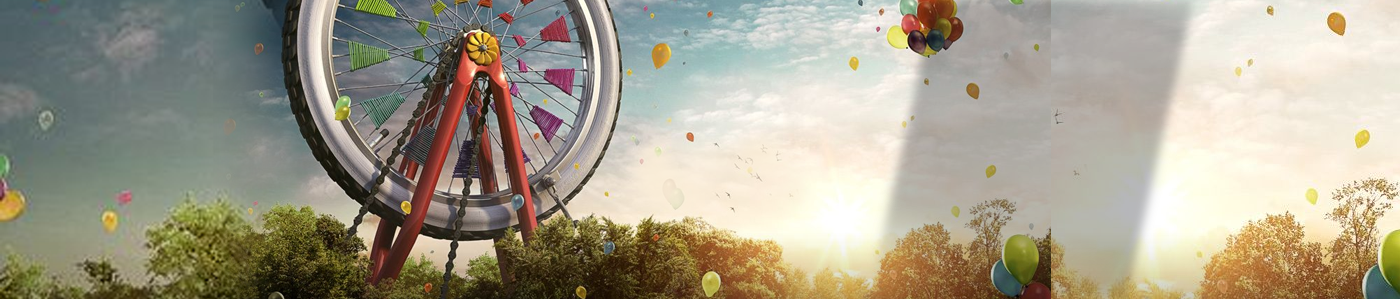
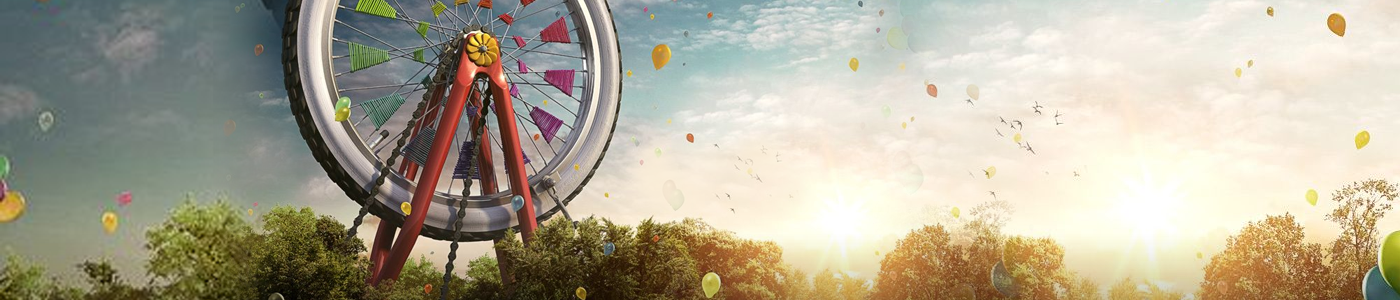
포폴수정

diff --git a/lib/css/cubebridge_master.css b/lib/css/cubebridge_master.css
@@ -1,9 +1,17 @@
+/*init*/
 *{margin:0; padding:0}
+html,body{height:100%;}
+a{text-decoration:none;}
+button,input[type="submit"]{cursor: pointer}
+fieldset{border:0 none}
+img{vertical-align: top;}
 ul{list-style:none}
 .ir{font-size:0; position:absolute; left:-999999999px; top:-99999999px;	overflow:hidden; width:0; height:0}
-body{font-size:11px; font-family:dotum, "돋움", arial, hevetica, sans-serif;	color:#a1a1a1; letter-spacing:-1px }
-a{text-decoration:none;}
-fieldset{border:0 none}
+body{font-size:12px; font-family:dotum, "돋움", arial, hevetica, sans-serif;	color:#a1a1a1; letter-spacing:-1px }
+
+/*color font*/
+.base{color:#555555 !important}
+.strcolor{color:#f9789f !important}
 
 /*option*/
 .strcolor{color:#f9789f!important}
@@ -33,25 +41,31 @@ fieldset{border:0 none}
 .head .depth02 .list02{position:relative; width:550px}
 .head .depth02 .list02 li{float:left; margin-left:inherit; margin-left:50px}
 
-.head .lnb ul>li>.depth02>ul>li>.depth03{display:none; z-index:1; position:absolute; width:183px; height:32px; background:url("../../lib/image/cubebridge/menu_box.png")no-repeat;  margin-top:3px; margin-left:5px}
+.head .lnb ul>li>.depth02>ul>li>.depth03{display:none; z-index:1; position:absolute; width:183px; height:32px; background:url("../../lib/image/cubebridge/menu_box.png")no-repeat;  margin-top:1px; margin-left:5px}
 .head .lnb ul>li>.depth02>ul>li>.depth03>ul{position:relative;  }
 .head .lnb ul>li>.depth02>ul>li>.depth03>ul>li{ float:left; margin-top:13px; margin:intial; margin-left:19px}
 
-.head .event_area{width:278px;	position:absolute;	top:25px;	right:0;  }
+.head .event_area{width:270px;	position:absolute;	top:25px;	right:0;  }
 .head .event_area .good-food{float:left; margin-right:5px   }
 .head .event_area div{margin-top:44px}
 .head .event_area div li p{line-height:16px; font-size:12px;}
-.head .event_area div li a{color:#77c3cf; font-weight:bold; font-size:14px; line-height:13px }
-.head .event_area div img{margin-bottom:5px}
+.head .event_area div li a{color:#77c3cf; font-weight:bold; font-size:13px; line-height:13px }
+.head .link_point{text-decoration: underline; color:#77c3cf; padding:0 10px; font-weight:bold;font-size:12px;}
+.head .event_area div img{margin-bottom:10px}
 
 .head .top_boll{width:11px; position:absolute; right:0; top:67px }
-.head .top_boll li{width:11px; height:11px; margin-bottom:8px}
+.head .top_boll li{ width:11px; height:11px; margin-bottom:8px; background:url("../../lib/image/cubebridge/top_boll2.png")}
+.head .top_boll li:hover,
+.head .top_boll li.on{background:url("../../lib/image/cubebridge/top_boll.png")}
 
 .menu_bar{height:35px; background-color:#00b2c7; border-top:6px #12151f solid}
 
-#container .main{height:300px; background:url("../../lib/image/cubebridge/main_image.png") no-repeat; background-position: center; background-color:#e9ddcf; vertical-align:top   }
-#container .main .main_wrap{width:980px;	height:300px; margin:0 auto; position:relative }
-#container .main .main_wrap .main_box{width:322px; height:300px; background:url("../../lib/image/cubebridge/notice-board.png") no-repeat; position:absolute; top:0; right:0;}
+
+
+#container .main{height:300px; overflow:hidden; position:relative}
+#container .main .intro{position:absolute; width:100%;top:0; left:0}
+#container .main .intro>img{min-width:100%; }
+#container .main .main_box{width:322px; height:100%; background:url("../../lib/image/cubebridge/notice-board.png") no-repeat; position:absolute; z-index:5; left:50%; margin-left:166px}
 
 
 #container strong{display:block; text-align:center; letter-spacing: -1; font-size:13px; font-weight:bold; color:#494f65 }
@@ -71,8 +85,10 @@ fieldset{border:0 none}
 #container .sub01_left li>div img{width:100%;}
 
 #container .sub01_wrap .sub01_right{width:265px; height:450px; float:right }
-#container .sub01_wrap .sub01_right_top{margin-top:25px}
-#container .sub01_wrap .sub01_right_videobox{width:265px; height:205px; margin:10px 0 8px 0}
+#container .sub01_wrap .sub01_right_top{margin-top:25px;}
+#container .sub01_right_top h2{float:left;}
+#container .sub01_right_top a{float:right;}
+
 #container .sub01_wrap .sub01_right_bottom{ width:265px; height:105px; margin-top:18px;  position:relative}
 #container .sub01_wrap .sub01_right_bottom div{width:80px; height:70px; background-color:#12151f; margin-bottom:8px }
 #container .sub01_wrap .sub01_right_bottom ul{width:250px; text-align:center; display:inline-block; margin:7px }

diff --git a/front/portfolio/cubebridge/main/main.html b/front/portfolio/cubebridge/main/main.html
@@ -4,8 +4,8 @@
 	<meta charset="UTF-8" />
 	<title>webzine</title>
 
-     <base href="http://hyojane.dothome.co.kr/" target="_self" />
-	<!-- <base href="file:///D:/uiux_kimjihyo/person_project/" target="_self" /> -->
+     <base href="file:///D:/uiux_kimjihyo/person-project/" target="_self" />
+	<!-- <base href="file:///D:/uiux_kimjihyo/person-project/" target="_self" /> -->
     <!-- <base href="http://hyojane.dothome.co.kr/" target="_self" /> -->
 
 
@@ -67,28 +67,35 @@
 					<li><img src="lib/image/cubebridge/event-area.png" alt="event-area"/></li>
 					<li><p>예쁜 아이콘과 함께<br>
 					이곳에 이벤트를 넣는 것은<br>
-					어떨까요? <a href="">view</a>
+					어떨까요? <a href="" class="link_point">View</a>
 					</p></li>
 				</ul>
 			</div>
 		</div>
 		<div class="top_boll">
 			<ul>
-				<li><img src="lib/image/cubebridge/top_boll.png" alt=""/></li>
+				<li></li>
+				<li></li>
+				<li></li>
+				<li></li>
+				<!-- <li><img src="lib/image/cubebridge/top_boll.png" alt=""/></li>
 				<li><img src="lib/image/cubebridge/top_boll2.png" alt=""/></li>
 				<li><img src="lib/image/cubebridge/top_boll2.png" alt=""/></li>
-				<li><img src="lib/image/cubebridge/top_boll2.png" alt=""/></li>
+				<li><img src="lib/image/cubebridge/top_boll2.png" alt=""/></li> -->
 			</ul>
 		</div>
+
 	</div>
 	<div class="menu_bar"></div>
 
 <div id="container">
-
 	<div class="main">
-		<div class="main_wrap">
-			<div class="main_box"> </div>
+		<div class="intro">
+			<img src="lib/image/cubebridge/main_image.png" alt=""/>
 		</div>
+			<div class="main_box">
+
+			</div>
 	</div>
 
 	<div class="main_sub01_bg">
@@ -168,10 +175,24 @@
 			</div>
 
 			<div class="sub01_right">
-				<div class="sub01_right_top">
+
+				<div class="video">
+					<div class="sub01_right_top">
+						<h2><img src="lib/image/cubebridge/bt_cubebridge.png" alt=""></h2>
+						<a href="">MORE</a>
+					</div>
+					<iframe width="265" height="205" src="https://www.youtube.com/embed/brVfHQjorT8" frameborder="0" allowfullscreen></iframe>
+					<p>
+						<strong>SEOTAIJI - HUMAN DREAM </strong>
+						<span>"SEOTAIJI VERSION" </span>
+					</p>
+				</div>
+
+				<!-- <div class="sub01_right_top">
 					<img src="lib/image/cubebridge/bt_cubebridge.png" alt="">
 					<div class="sub01_right_videobox">
-						<img src="lib/image/cubebridge/box_video.png" alt="">
+
+						<iframe width="278" height="205" src="https://www.youtube.com/embed/brVfHQjorT8" frameborder="0" allowfullscreen></iframe>
 					</div>
 					<a href="">
 						<p>
@@ -179,7 +200,9 @@
 							<span>Video Clip’s Name Video Clip’s Name...!!!</span>
 						</p>
 					</a>
-				</div>
+				</div> -->
+
+
 				<div class="sub01_right_bottom">
 				<button class="bt_next"><img src="lib/image/cubebridge/main_arrow_right.png" alt="다음"></button>
 				<button class="bt_prv"><img src="lib/image/cubebridge/main_arrow_left.png" alt="이전"></button>

diff --git a/front/portfolio/cubebridge/coverstroy/list.html b/front/portfolio/cubebridge/coverstroy/list.html
@@ -4,7 +4,7 @@
 	<meta charset="UTF-8" />
 	<title>webzine</title>
 
-    <base href="http://hyojane.dothome.co.kr/" target="_self" />
+    <base href="file:///D:/uiux_kimjihyo/person-project/" target="_self" />
 	<!-- <base href="file:///D:/uiux_kimjihyo/person_project/" target="_self" /> -->
     <!-- <base href="http://hyojane.dothome.co.kr/" target="_self" /> -->
 
@@ -14,26 +14,30 @@
 
 <script type="text/javascript">
 
-$(document.ready(function(){
-   //$()
-   //.read()
-   //function(){}
+	$(document.ready(function(){
+	   //$()
+	   //.read()
+	   //function(){}
 
-$('.icon-grid').click(function(){
-	$('.view-list').removeClass().addClass()('webzine-list');
-	return false;
-});
+	   $('.icon-grid').click(function(){
+   		$('.view-list').removeClass().addClass('webzine-list');
 
-$('.icon-list').click(function(){
-	$('.webzine-list').removeClass().addClass()('view-list');
-	return false;
-});
+   		return false;
+   		});
 
-$('.fix_option').click(function(){
-	$(this).next('ul').slideToggle();
-});
+   	$('.icon-list').click(function(){
 
-});
+   		$('.webzine-list').removeClass().addClass('view-list');
+
+   		return false;
+   	});
+
+   	$('.fix_option').click(function(){
+   		$(this).next('ul').slideToggle();
+
+   	})
+})
+
 
 </script>
 
@@ -91,19 +95,24 @@ $('.fix_option').click(function(){
 					<li><img src="lib/image/cubebridge/event-area.png" alt="event-area"/></li>
 					<li><p>예쁜 아이콘과 함께<br>
 					이곳에 이벤트를 넣는 것은<br>
-					어떨까요? <a href="">view</a>
+					어떨까요? <a href="" class="link_point">View</a>
 					</p></li>
 				</ul>
 			</div>
 		</div>
 		<div class="top_boll">
 			<ul>
-				<li><img src="lib/image/cubebridge/top_boll.png" alt=""/></li>
+				<li></li>
+				<li></li>
+				<li></li>
+				<li></li>
+				<!-- <li><img src="lib/image/cubebridge/top_boll.png" alt=""/></li>
 				<li><img src="lib/image/cubebridge/top_boll2.png" alt=""/></li>
 				<li><img src="lib/image/cubebridge/top_boll2.png" alt=""/></li>
-				<li><img src="lib/image/cubebridge/top_boll2.png" alt=""/></li>
+				<li><img src="lib/image/cubebridge/top_boll2.png" alt=""/></li> -->
 			</ul>
 		</div>
+
 	</div>
 	<div class="menu_bar"></div>
 

diff --git a/front/portfolio/cubebridge/coverstroy/view.html b/front/portfolio/cubebridge/coverstroy/view.html
@@ -4,8 +4,8 @@
 	<meta charset="UTF-8" />
 	<title>webzine</title>
 
-    <base href="http://hyojane.dothome.co.kr/" target="_self" />
-	<!-- <base href="file:///D:/uiux_kimjihyo/person_project/" target="_self" /> -->
+    <base href="file:///D:/uiux_kimjihyo/person-project/" target="_self" />
+	<!-- <base href="file:///D:/uiux_kimjihyo/person-project/" target="_self" /> -->
     <!-- <base href="http://hyojane.dothome.co.kr/" target="_self" /> -->
 
 
@@ -94,19 +94,24 @@ $('.fix_option').click(function(){
 					<li><img src="lib/image/cubebridge/event-area.png" alt="event-area"/></li>
 					<li><p>예쁜 아이콘과 함께<br>
 					이곳에 이벤트를 넣는 것은<br>
-					어떨까요? <a href="">view</a>
+					어떨까요? <a href="" class="link_point">View</a>
 					</p></li>
 				</ul>
 			</div>
 		</div>
 		<div class="top_boll">
 			<ul>
-				<li><img src="lib/image/cubebridge/top_boll.png" alt=""/></li>
+				<li></li>
+				<li></li>
+				<li></li>
+				<li></li>
+				<!-- <li><img src="lib/image/cubebridge/top_boll.png" alt=""/></li>
 				<li><img src="lib/image/cubebridge/top_boll2.png" alt=""/></li>
 				<li><img src="lib/image/cubebridge/top_boll2.png" alt=""/></li>
-				<li><img src="lib/image/cubebridge/top_boll2.png" alt=""/></li>
+				<li><img src="lib/image/cubebridge/top_boll2.png" alt=""/></li> -->
 			</ul>
 		</div>
+
 	</div>
 	<div class="menu_bar"></div>
 

diff --git a/front/portfolio/naver_news/main.html b/front/portfolio/naver_news/main.html
@@ -5,7 +5,7 @@
 	<title>naver news</title>
 	<link rel="stylesheet" href="css/naver_news.css"/>
 
-	<base href="http://hyojane.dothome.co.kr/" target="_self" />
+	<base href="file:///D:/uiux_kimjihyo/person-project/" target="_self" />
     <!-- <base href="file:///D:/uiux_kimjihyo/person-project/" target="_self" /> -->
 	<!-- <base href="http://hyojane.dothome.co.kr/" target="_self" /> -->
 
